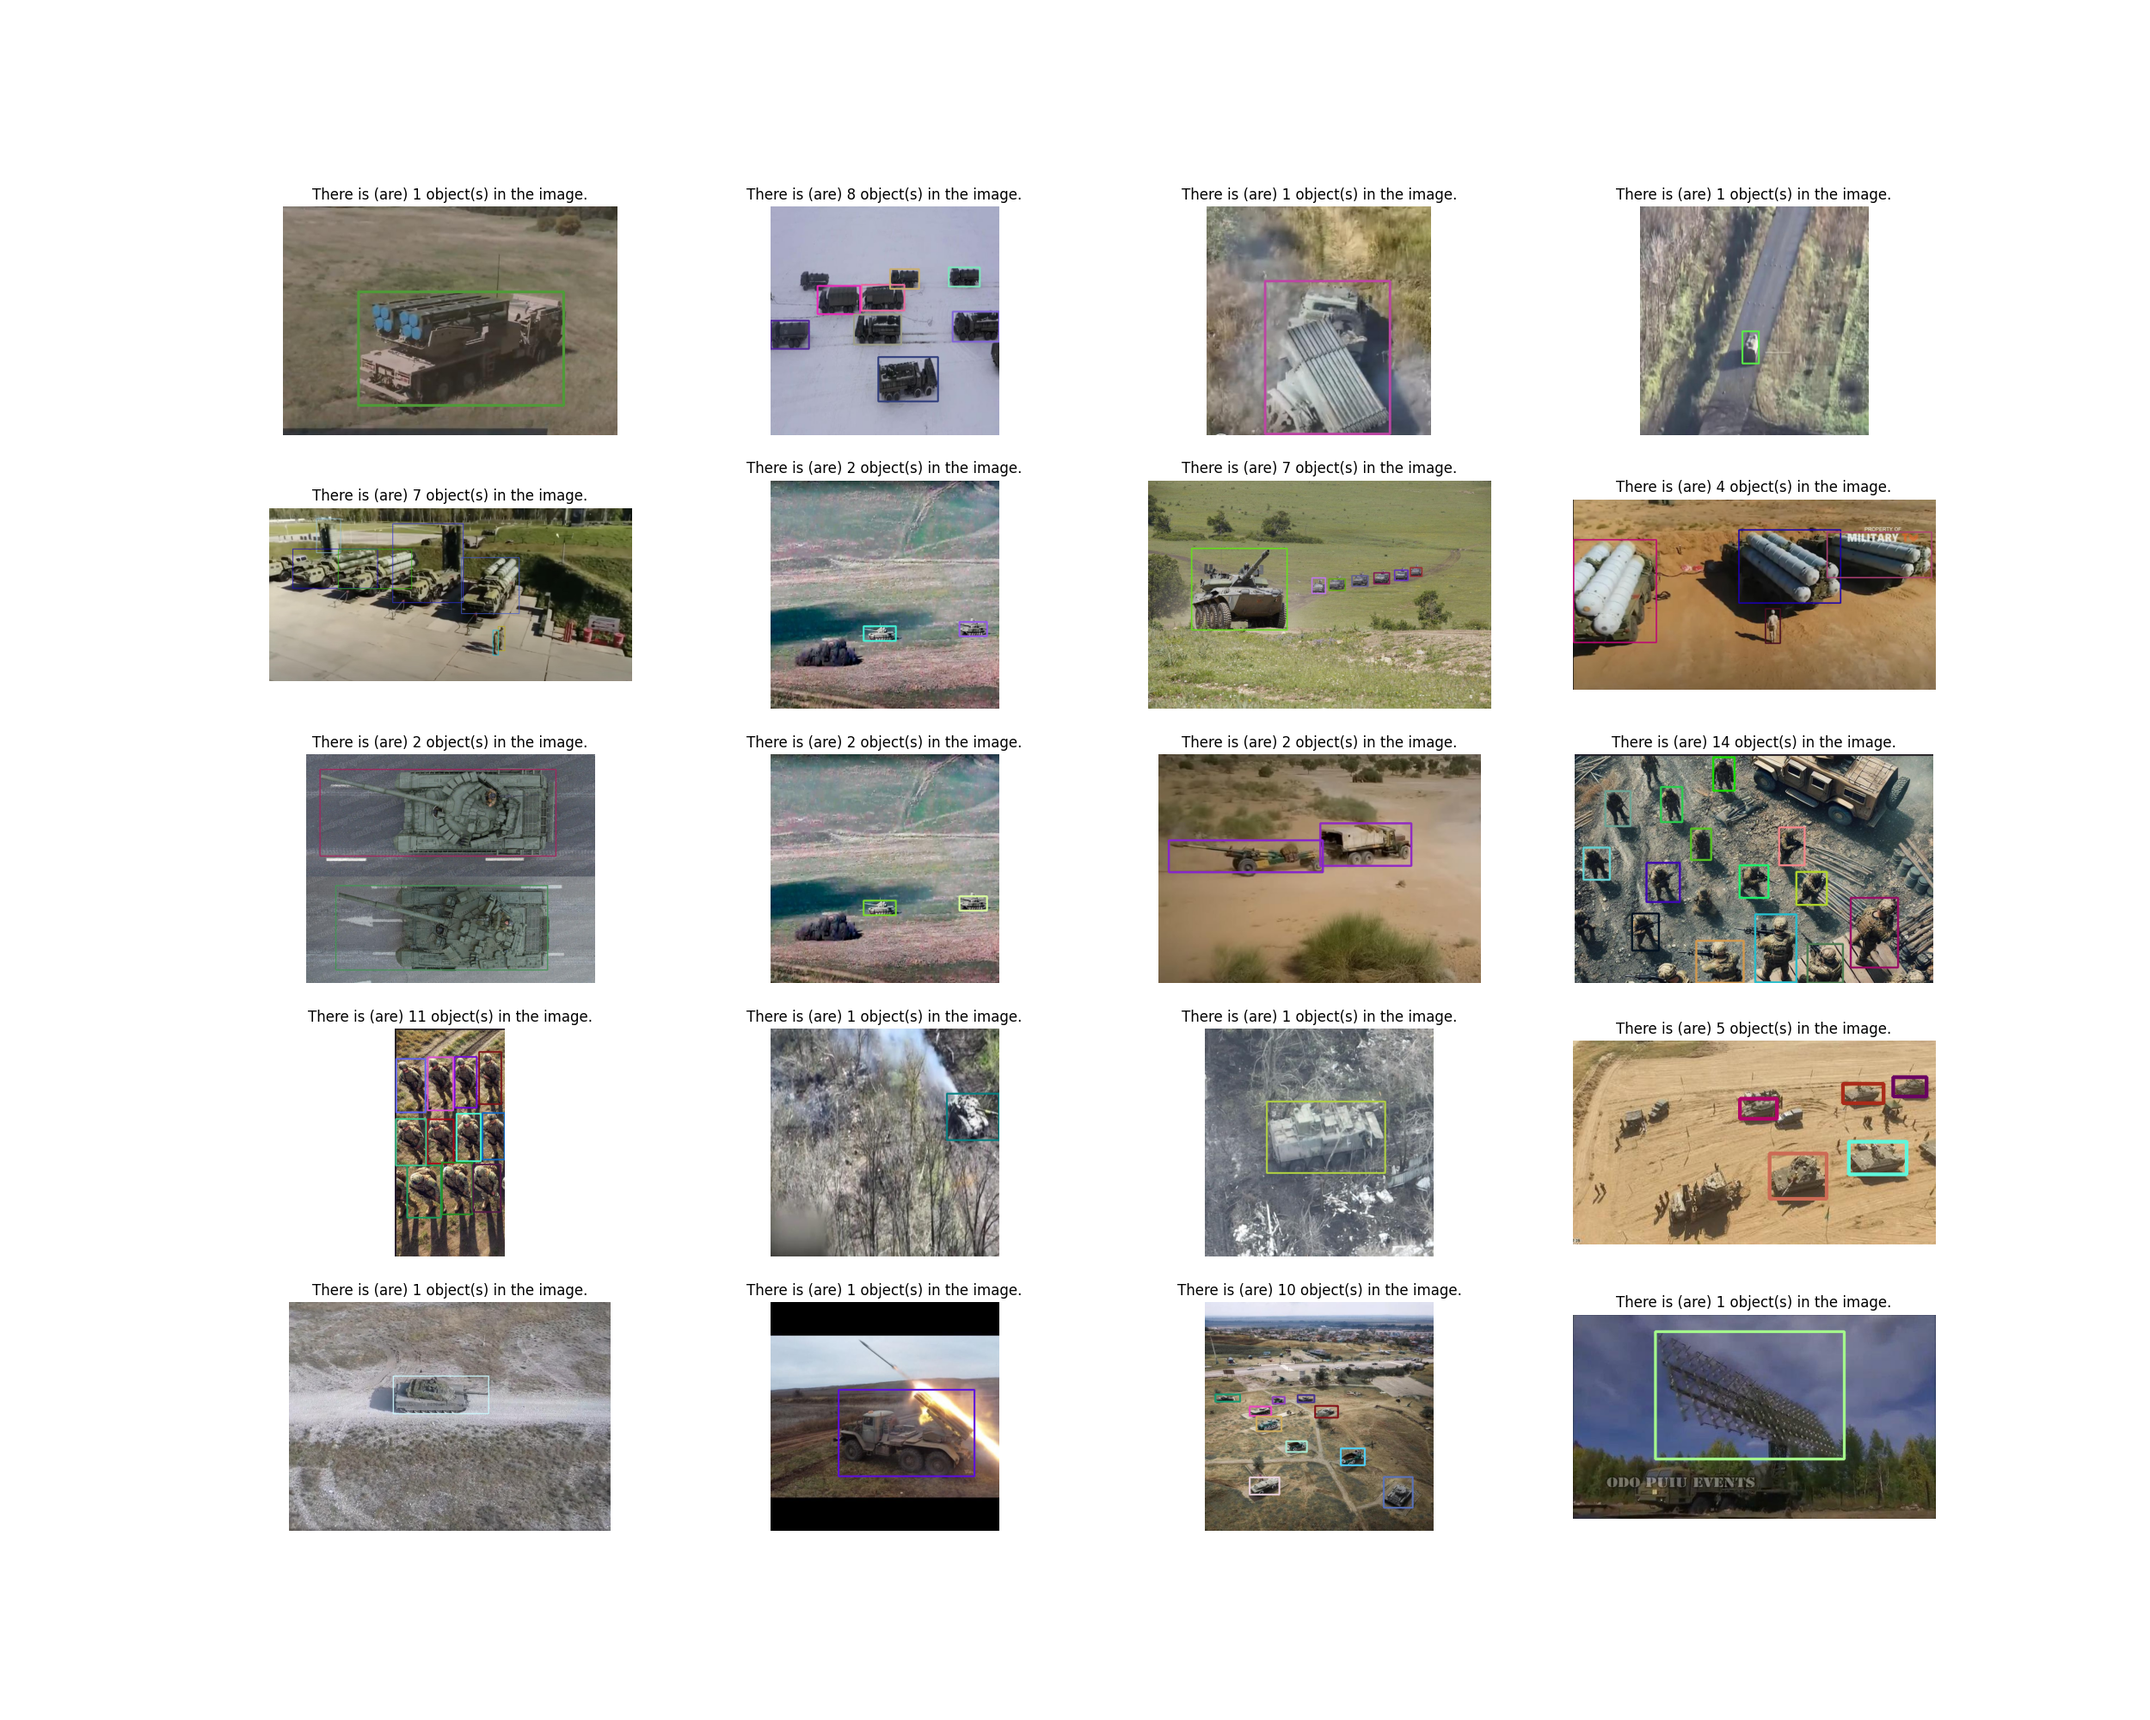
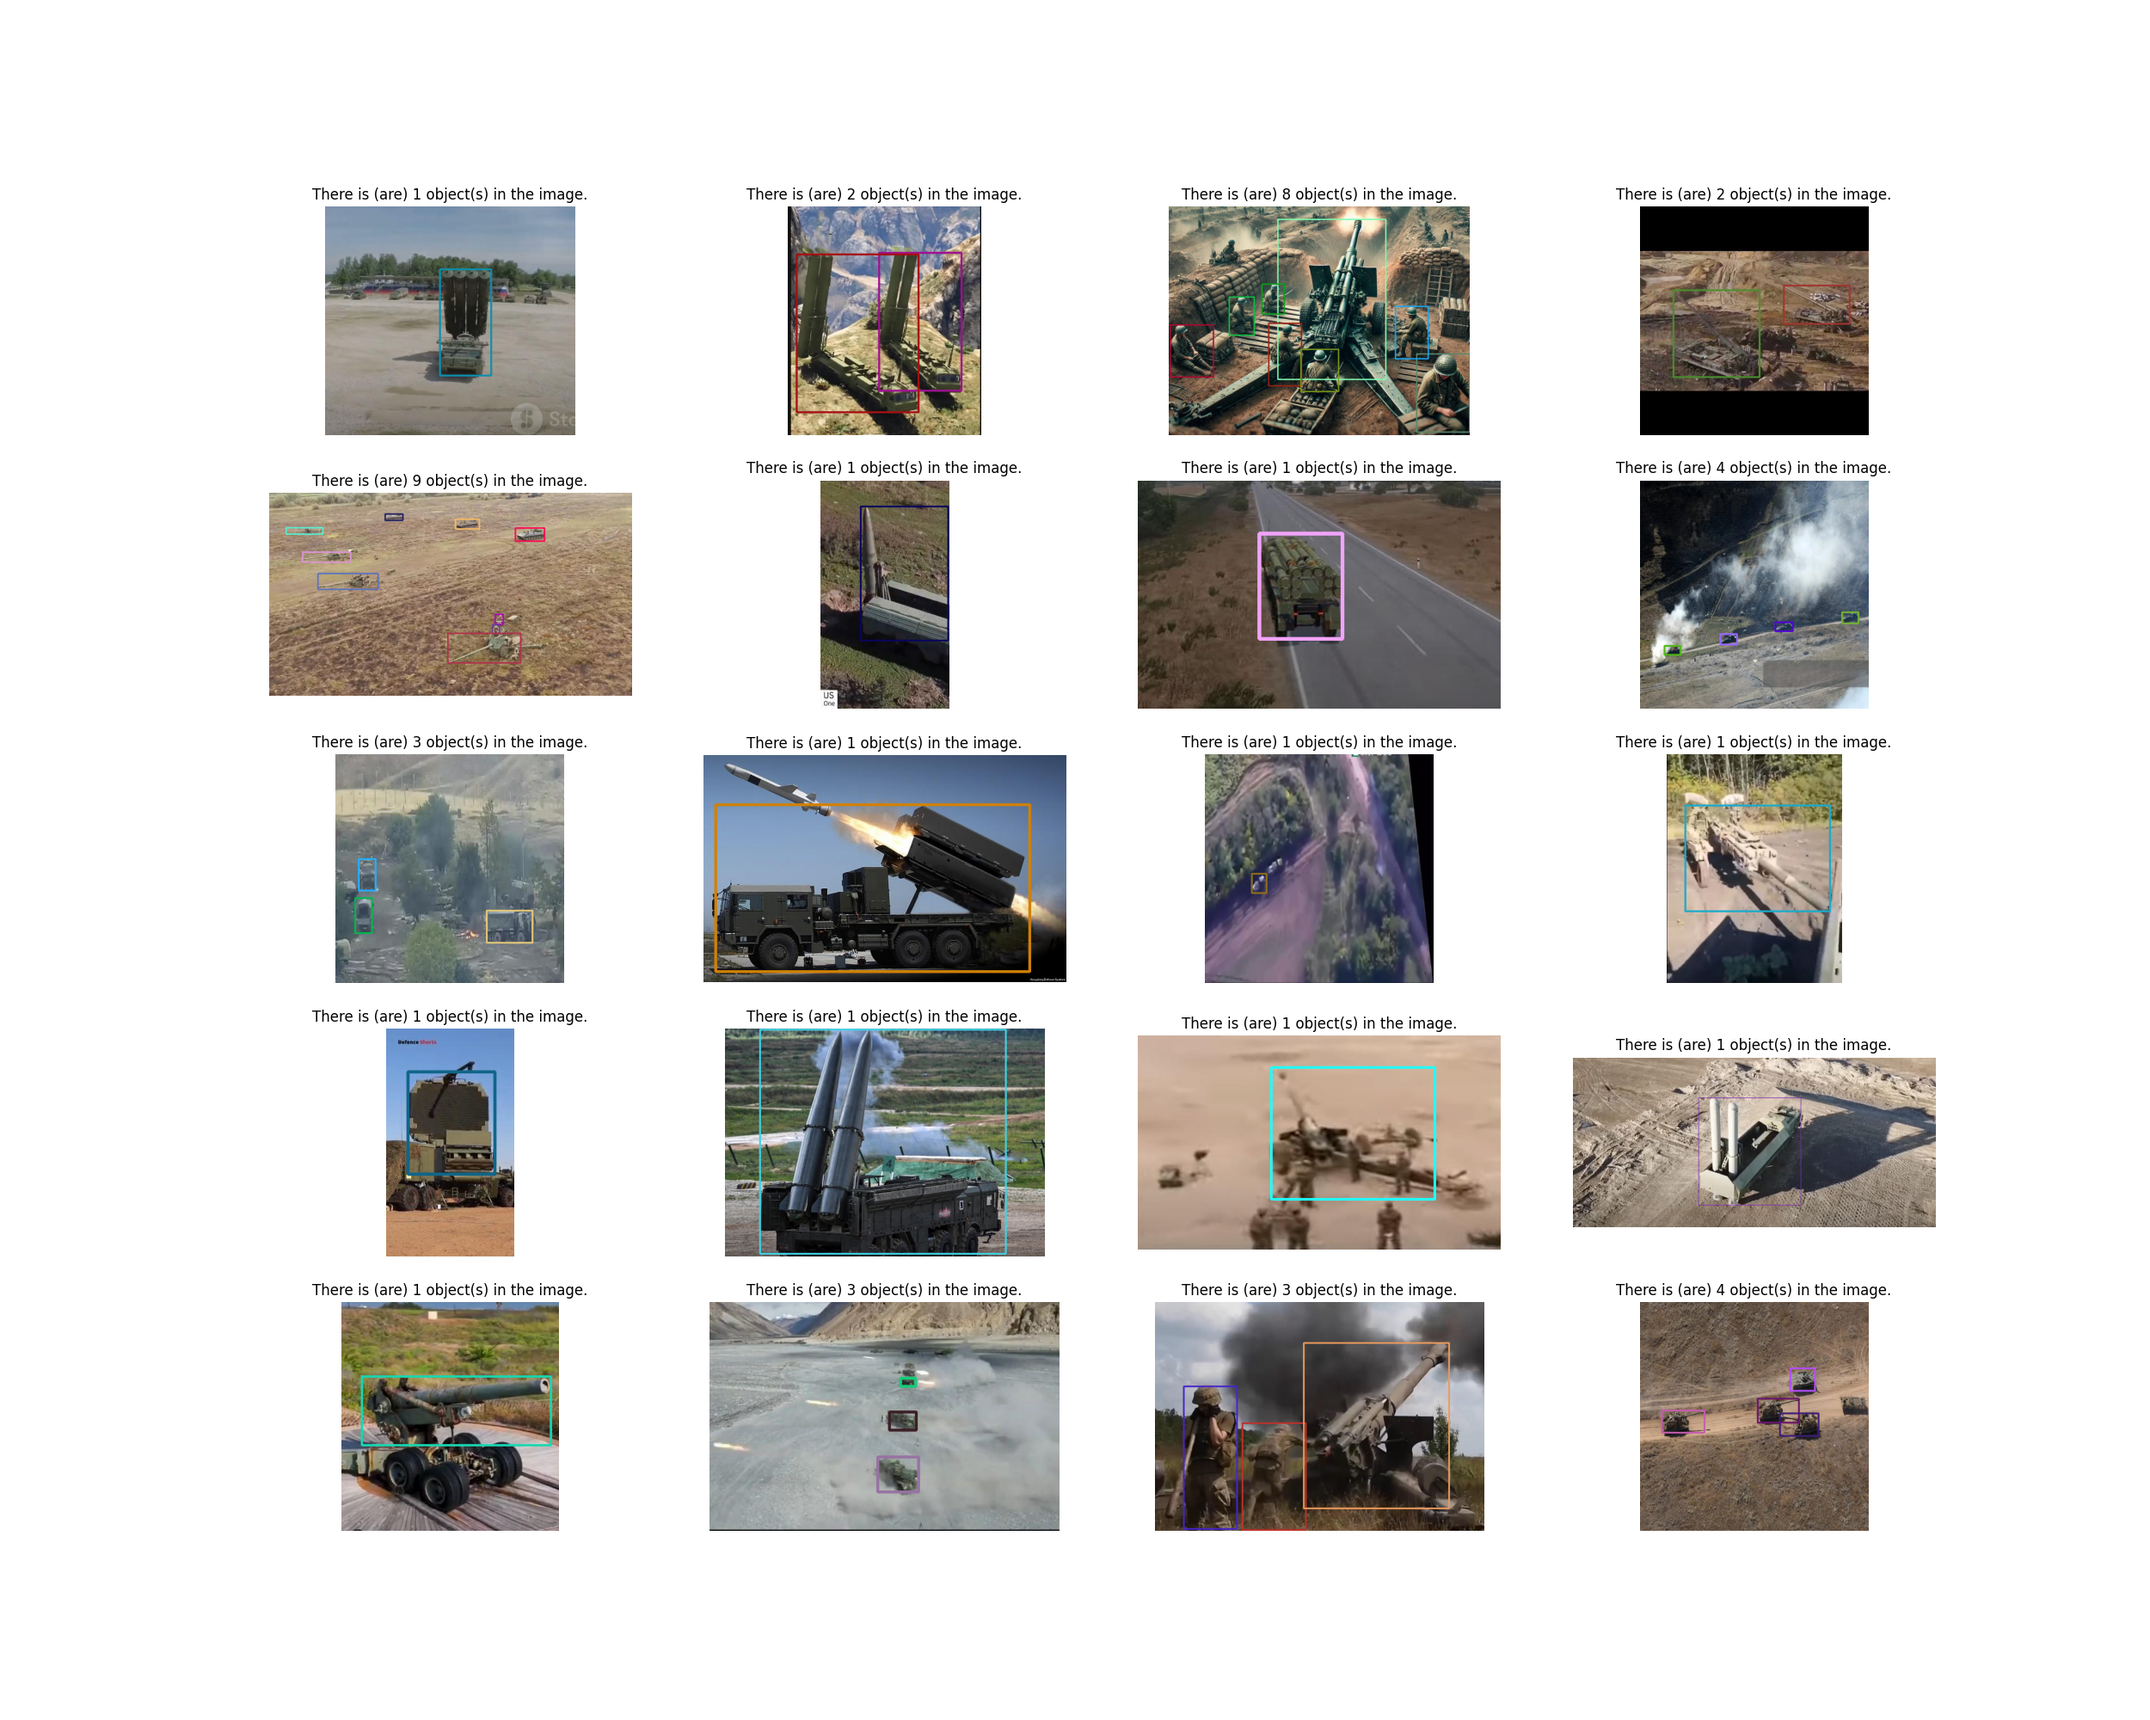
update visualization functionality in main script

diff --git a/main.py b/main.py
@@ -59,16 +59,25 @@ def main():
         with open(output_path, 'w') as file: yaml.dump(data, file, default_flow_style=False)    
 
     if not os.path.isdir(ds_path): DatasetDownloader(save_dir=ds_path).download(ds_nomi=args.dataset_name)
-    else: print(f"{args.dataset_name} dataseti allaqachon {args.dataset_root} yo'lagiga yuklab olingan.")             
-
+    else: print(f"{args.dataset_name} dataseti allaqachon {args.dataset_root} yo'lagiga yuklab olingan.")        
+    
+    
+    
+    if not "yolo" in args.model_name:  
+        coco_ds_path = os.path.join(args.dataset_root, f"{args.dataset_name}_COCO")
+        if not os.path.isdir(coco_ds_path): 
+            print("\n Converting YOLO data into COCO data...\n")
+            converter = YOLOtoCOCOConverter(
+                root_dir=ds_path,            
+                output_dir=coco_ds_path
+            )
+            converter.convert_all()
+        ann_type = "coco"
+    
+    else: ann_type = "yolo"
     vis = Visualization(root = ds_path, data_types = ["train", "valid", "test"], n_ims = 20, rows = 5, 
-                        vis_dir = args.vis_dir, ds_nomi = args.dataset_name, cmap = "rgb")
+                        cls_root=args.cls_root, vis_dir = args.vis_dir, ds_nomi = args.dataset_name, cmap = "rgb", ann_type=ann_type)
     vis.analysis(); vis.visualization()
-
-    os.makedirs(args.cls_root, exist_ok=True)
-    with open(f"{args.cls_root}/{args.dataset_name}_cls_names.pkl", "wb") as f: pickle.dump(vis.class_names, f)
-
-    print(f"Datasetdagi klasslar -> {vis.class_names}")
     
     if "yolo" in args.model_name:  
         train_name = f"{args.dataset_name}_{os.path.splitext(args.model_name)[0]}"
@@ -87,11 +96,7 @@ def main():
         model = YOLO(os.path.join(save_path, "weights", "best.pt"))
         yolo_infer = YOLOv11Inference(model, save_dir=args.outputs_dir, train_name=train_name, device=args.device)
         yolo_infer.run(image_dir = f"{ds_path}/test/images")
-    else:
-        converter = YOLOtoCOCOConverter(
-            root_dir=ds_path,            
-            output_dir=os.path.join(args.dataset_root, f"{args.dataset_name}_COCO")
-        )
-        converter.convert_all()
+    
+    else: pass        
 
 if __name__ == "__main__": main()

diff --git a/src/vis.py b/src/vis.py
@@ -1,11 +1,14 @@
-import os, cv2, yaml, json, random, numpy as np
+import pickle, json, random
+import os, cv2, yaml, numpy as np
 from glob import glob
 from PIL import Image, ImageDraw
 import matplotlib.pyplot as plt
 
 class Visualization:
-    def __init__(self, root, data_types, n_ims, rows, vis_dir, ds_nomi, cmap=None, ann_type="coco"):
+    def __init__(self, root, data_types, n_ims, rows, vis_dir, ds_nomi, cls_root, cmap=None, ann_type="coco"):
         self.root = root if ann_type == "yolo" else f"{os.path.dirname(os.path.dirname(os.path.dirname(root)))}_COCO"
+        self.cls_root = cls_root
+        os.makedirs(self.cls_root, exist_ok=True)
         self.n_ims, self.rows = n_ims, rows
         self.cmap, self.data_types = cmap, data_types
         self.vis_dir, self.ds_nomi = vis_dir, ds_nomi
@@ -34,6 +37,8 @@ class Visualization:
             else:
                 raise RuntimeError("No COCO annotations files found for class names extraction.")
         self.class_dict = {index: name for index, name in enumerate(self.class_names)}
+        with open(f"{self.cls_root}/{self.ds_nomi}_cls_names.pkl", "wb") as f: pickle.dump(self.class_names, f)
+        print(f"Datasetdagi klasslar -> {self.class_names}")
 
     def get_bboxes(self):
         self.vis_datas, self.analysis_datas, self.im_paths = {}, {}, {}
